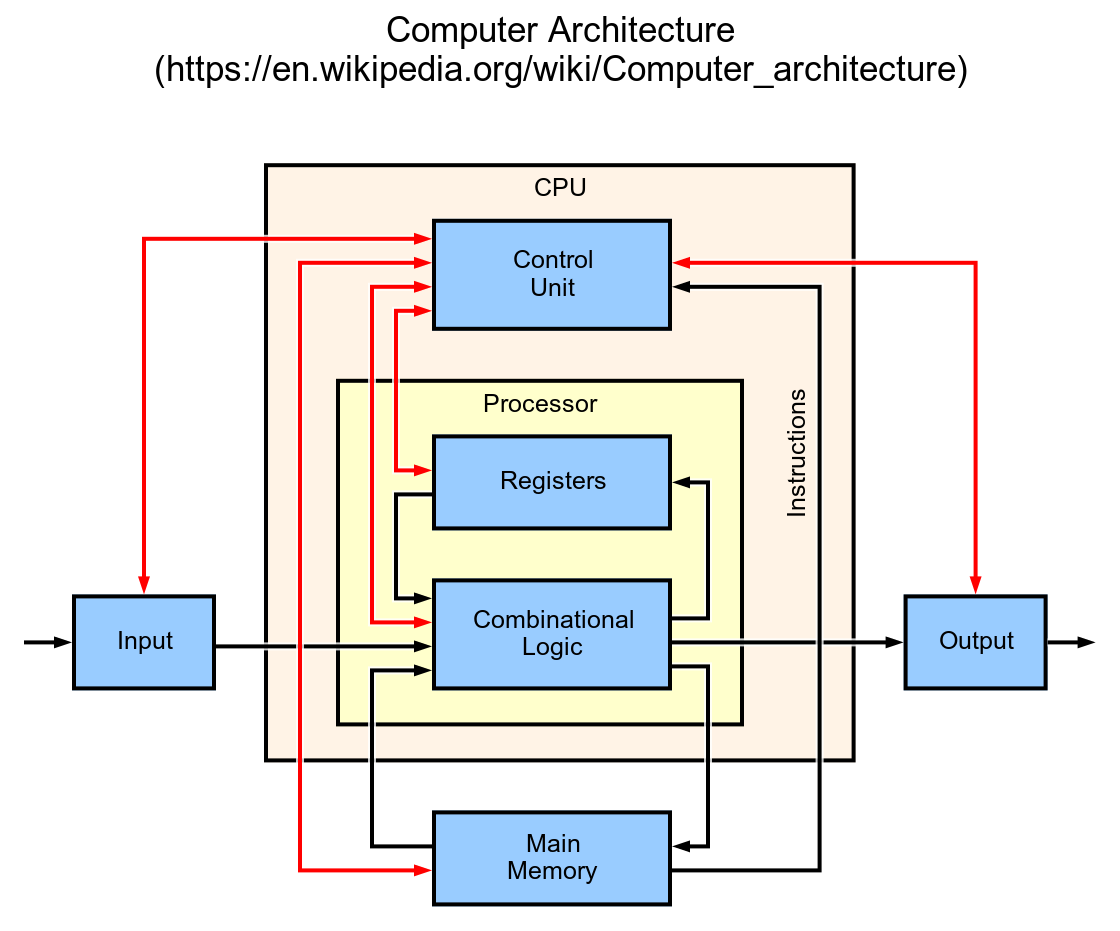
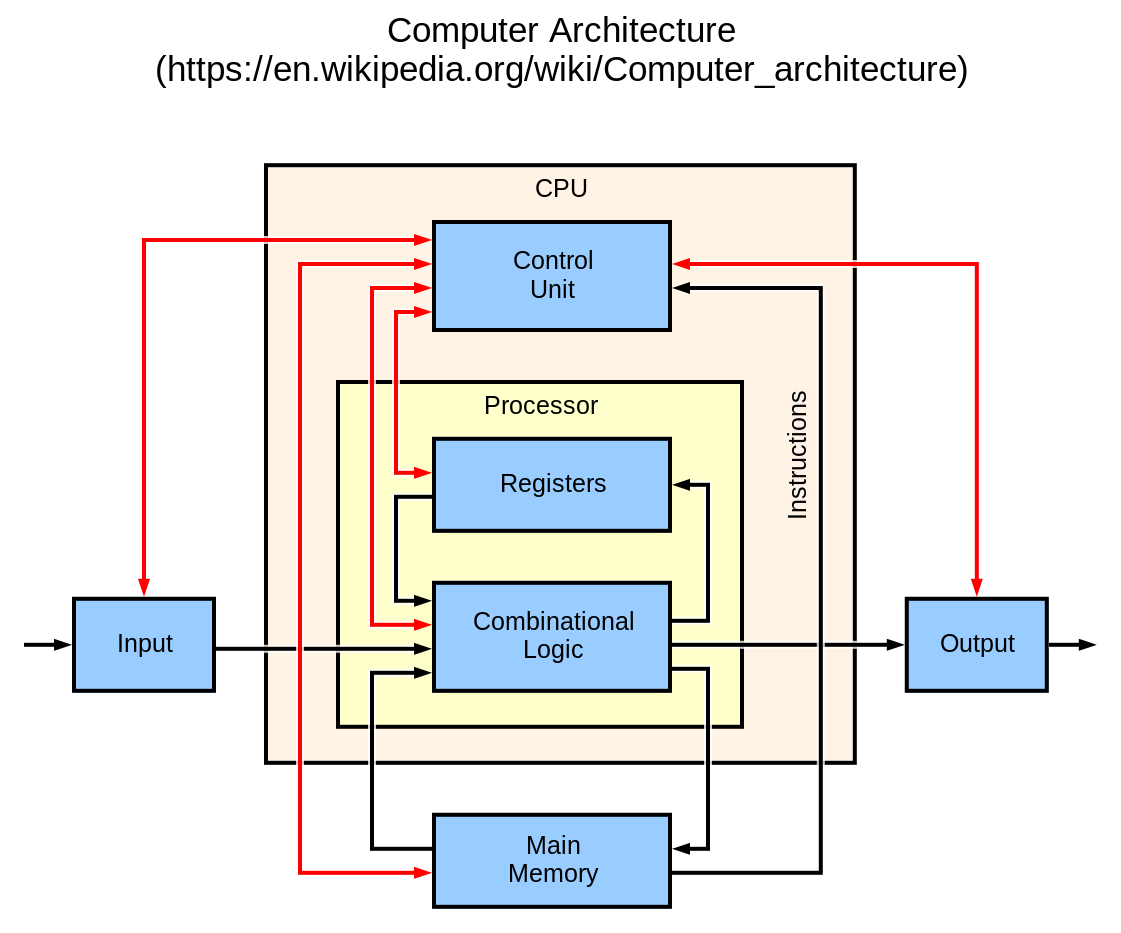
Fix label size bug related to orientation

diff --git a/orthogram/draw/labels.py b/orthogram/draw/labels.py
@@ -254,7 +254,11 @@ class DrawingWireLabel(ABC):
         """Distance from 'highest' point to axis."""
         label = self._drawing_label
         gap = label.attributes.label_distance
-        return self._bump() + gap + label.height
+        if self._layout_label.follows_segment():
+            length = label.height
+        else:
+            length = label.width
+        return self._bump() + gap + length
 
     @property
     def lmid(self) -> Variable:
